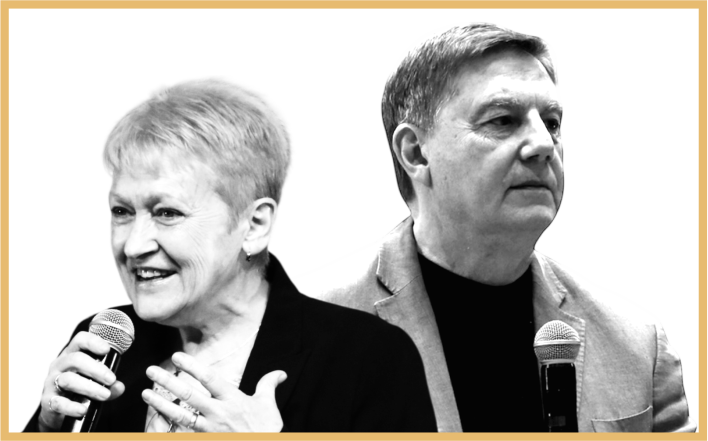
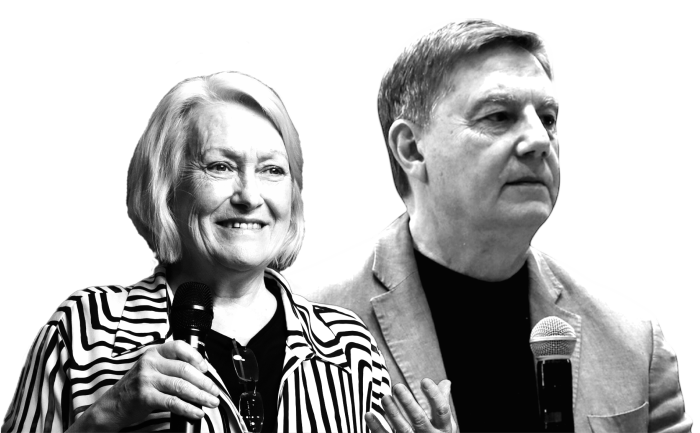
feat(oradores): reescribir sección oradores con puzzle1.png y modales mejorados
- Reemplazar puzzle animado por imagen estática puzzle1.png con áreas clickeables
- Actualizar imágenes individuales de oradores desde nuevos PNGs
- Convertir foto de Rodríguez a escala de grises
- Reemplazar oradores-juntos.png por Oradores_juntos2
- Agregar línea dorada CSS (5px) debajo de fotos en modales y oradores-juntos
- Coordenadas de áreas clickeables medidas pixel a pixel desde puzzle1.png
- Limpiar código: eliminar campo pareja, scripts temporales y imports no usados

diff --git a/src/components/hero.tsx b/src/components/hero.tsx
@@ -1,6 +1,34 @@
 "use client";
 
-import Image from "next/image";
+import { motion } from "framer-motion";
+
+// 1: Título — entrada grandiosa, offset alto, easing fuerte
+const titleAnim = {
+  initial: { y: 50, opacity: 0 },
+  animate: { y: 0, opacity: 1 },
+  transition: { duration: 0.7, delay: 0.2, ease: [0.33, 1, 0.68, 1] as const },
+};
+
+// 2: Año — slide + sutil scale, easing suave
+const yearAnim = {
+  initial: { y: 40, opacity: 0, scale: 0.95 },
+  animate: { y: 0, opacity: 1, scale: 1 },
+  transition: { duration: 0.6, delay: 0.55, ease: [0.61, 1, 0.88, 1] as const },
+};
+
+// 3: Fecha — offset medio, easing suave
+const dateAnim = {
+  initial: { y: 30, opacity: 0 },
+  animate: { y: 0, opacity: 1 },
+  transition: { duration: 0.5, delay: 0.9, ease: [0.61, 1, 0.88, 1] as const },
+};
+
+// 4: Lema — entrada rápida y decidida
+const taglineAnim = {
+  initial: { y: 20, opacity: 0 },
+  animate: { y: 0, opacity: 1 },
+  transition: { duration: 0.4, delay: 1.1, ease: "easeOut" as const },
+};
 
 export function Hero() {
   return (
@@ -8,16 +36,33 @@ export function Hero() {
       id="inicio"
       className="relative flex h-screen items-center justify-center"
     >
-      {/* Title composition PNG - centered to match "primera vista" design */}
       <div className="relative z-10 w-full max-w-3xl px-6 lg:px-8">
-        <Image
-          src="/images/titulo-congreso.png"
-          alt="CONGRESO CCE ARG. 2026 - MARZO 20 AL 23 - EXPANSIÓN SOBRENATURAL"
-          width={1200}
-          height={900}
+        <svg
+          viewBox="0 0 21000 29700"
           className="h-auto w-full"
-          priority
-        />
+          aria-label="CONGRESO CCE ARG. 2026 - MARZO 20 AL 23 - EXPANSIÓN SOBRENATURAL"
+          role="img"
+        >
+          {/* 1: CONGRESO CCE ARG. */}
+          <motion.g {...titleAnim}>
+            <path fill="#FEFEFE" fillRule="nonzero" d="M3846.02 13329.42c-50.13,0 -62.66,-37.61 -62.66,-100.28l0 -3478.17c0,-62.67 12.53,-94 62.66,-94 50.14,0 62.68,31.33 62.68,94l0 1416.33 595.36 0 0 -1435.13c0,-357.22 -175.48,-595.36 -601.63,-595.36l-100.27 0c-463.75,0 -639.23,269.48 -639.23,651.77l0 3402.96c0,426.16 181.74,670.57 639.23,670.57l100.27 0c426.15,0 601.63,-282.01 601.63,-620.43l0 -1585.54 -595.36 0 0 1573c0,56.41 -12.54,100.28 -62.68,100.28zm2124.52 -3484.44c0,-432.42 -194.28,-708.17 -645.51,-708.17l-87.73 0c-451.23,0 -651.77,269.48 -651.77,708.17l0 3321.49c0,438.69 225.62,695.64 651.77,695.64l87.73 0c407.36,0 645.51,-250.69 645.51,-695.64l0 -3321.49zm-620.44 3371.63c0,62.66 -25.07,100.27 -68.94,100.27 -50.13,0 -68.93,-37.61 -68.93,-100.27l0 -3434.31c0,-75.2 12.53,-106.53 68.93,-106.53 50.15,0 68.94,37.6 68.94,106.53l0 3434.31zm715.48 -4048.46l0 4662.62 496.14 0 -6.27 -2995.62 287.24 2995.62 569.25 0 0 -4662.62 -501.36 0 12.54 2688.53 -237.11 -2688.53 -620.43 0zm1910.39 4693.96c206.8,0 332.15,-150.41 413.62,-275.75 18.8,56.4 56.4,181.74 62.67,244.41l413.61 0 0 -2726.13 -695.63 0 0 476.29 119.07 0 0 1660.75c0,75.2 -31.33,112.8 -87.73,112.8 -56.41,0 -81.47,-37.6 -81.47,-112.8l0 -3496.97c0,-56.41 12.53,-94.01 62.66,-94.01 62.68,0 68.95,37.6 68.95,94.01l0 1209.52 589.09 0 0 -1240.86c0,-294.55 -131.61,-576.56 -620.43,-576.56l-81.48 0c-482.55,0 -639.22,282.01 -639.22,614.16l0 3522.04c0,319.62 150.4,589.1 463.76,589.1l12.53 0zm1585.54 -4223.95l50.14 0c56.4,0 62.66,25.07 62.66,81.48l0 1359.93c0,56.41 -18.79,81.47 -68.93,81.47l-43.87 0 0 -1522.88zm0 2049.3l43.87 0c62.67,0 68.93,37.61 68.93,81.48l0 1911.43c0,68.93 18.81,125.33 43.87,150.4l595.36 0 0 -12.53c-12.53,-37.6 -25.06,-87.74 -25.06,-156.68l0 -1986.63c0,-194.27 -125.35,-300.81 -225.62,-338.41 94.01,-43.87 213.09,-144.14 213.09,-388.55l0 -1347.4c0,-288.28 -162.95,-432.42 -376.02,-432.42l-952.58 0 0 4662.62 614.16 0 0 -2143.31zm814.71 -2519.31l0 4662.62 1034.05 0 0 -564.03 -432.43 0 0 -1604.34 363.49 0 0 -576.56 -363.49 0 0 -1359.94 419.89 0 0 -557.75 -1021.51 0zm1692.08 4693.96l137.87 0c426.16,0 626.7,-244.41 626.7,-639.24l0 -1203.26c0,-325.88 -75.2,-495.08 -313.35,-708.17l-325.88 -325.87c-75.21,-81.47 -94.01,-119.08 -94.01,-238.15l0 -1059.12c0,-50.14 18.8,-75.2 62.67,-75.2 43.87,0 62.68,25.06 62.68,75.2l0 1228.33 582.82 0 0 -1253.4c0,-300.81 -131.6,-526.42 -576.56,-526.42l-137.87 0c-438.69,0 -607.9,225.61 -607.9,576.56l0 1059.12c0,288.28 75.21,495.08 275.75,683.09l332.15 325.89c87.74,87.74 106.54,137.87 106.54,263.22l0 1209.52c0,62.67 -18.8,100.27 -68.94,100.27 -50.14,0 -62.67,-37.6 -62.67,-100.27l0 -1410.07 -601.63 0 0 1453.94c0,369.75 200.54,564.03 601.63,564.03zm2224.78 -4017.13c0,-432.42 -194.28,-708.17 -645.51,-708.17l-87.73 0c-451.22,0 -651.76,269.48 -651.76,708.17l0 3321.49c0,438.69 225.61,695.64 651.76,695.64l87.73 0c407.36,0 645.51,-250.69 645.51,-695.64l0 -3321.49zm-620.43 3371.63c0,62.66 -25.08,100.27 -68.95,100.27 -50.13,0 -68.93,-37.61 -68.93,-100.27l0 -3434.31c0,-75.2 12.53,-106.53 68.93,-106.53 50.15,0 68.95,37.6 68.95,106.53l0 3434.31zm-9826.63 5107.28c-50.13,0 -62.66,-37.6 -62.66,-100.28l0 -3478.16c0,-62.68 12.53,-94.01 62.66,-94.01 50.14,0 62.68,31.33 62.68,94.01l0 1416.33 595.36 0 0 -1435.14c0,-357.21 -175.48,-595.36 -601.63,-595.36l-100.27 0c-463.75,0 -639.23,269.49 -639.23,651.77l0 3402.97c0,426.15 181.74,670.56 639.23,670.56l100.27 0c426.15,0 601.63,-282.01 601.63,-620.43l0 -1585.54 -595.36 0 0 1573c0,56.41 -12.54,100.28 -62.68,100.28zm1422.61 0c-50.13,0 -62.67,-37.6 -62.67,-100.28l0 -3478.16c0,-62.68 12.54,-94.01 62.67,-94.01 50.14,0 62.68,31.33 62.68,94.01l0 1416.33 595.36 0 0 -1435.14c0,-357.21 -175.48,-595.36 -601.64,-595.36l-100.27 0c-463.75,0 -639.23,269.49 -639.23,651.77l0 3402.97c0,426.15 181.75,670.56 639.23,670.56l100.27 0c426.16,0 601.64,-282.01 601.64,-620.43l0 -1585.54 -595.36 0 0 1573c0,56.41 -12.54,100.28 -62.68,100.28zm739.51 -4161.27l0 4662.63 1034.05 0 0 -564.03 -432.43 0 0 -1604.34 363.49 0 0 -576.57 -363.49 0 0 -1359.93 419.89 0 0 -557.76 -1021.51 0zm2080.57 3183.62l-150.41 0 75.21 -1967.83 75.2 1967.83zm56.4 1479.01l589.1 0 -313.35 -4662.63 -777.1 0 -294.55 4662.63 526.43 0 37.6 -946.32 194.28 0 37.59 946.32zm1234.6 -4192.61l50.13 0c56.4,0 62.67,25.07 62.67,81.47l0 1359.93c0,56.41 -18.8,81.47 -68.93,81.47l-43.87 0 0 -1522.87zm0 2049.3l43.87 0c62.66,0 68.93,37.6 68.93,81.47l0 1911.43c0,68.93 18.81,125.33 43.87,150.41l595.36 0 0 -12.54c-12.54,-37.6 -25.07,-87.73 -25.07,-156.68l0 -1986.62c0,-194.28 -125.34,-300.81 -225.61,-338.42 94,-43.87 213.08,-144.14 213.08,-388.55l0 -1347.4c0,-288.28 -162.95,-432.42 -376.02,-432.42l-952.58 0 0 4662.63 614.17 0 0 -2143.31zm1290.99 2174.64c206.81,0 332.15,-150.4 413.63,-275.75 18.79,56.41 56.4,181.75 62.66,244.42l413.62 0 0 -2726.14 -695.63 0 0 476.29 119.07 0 0 1660.75c0,75.2 -31.33,112.81 -87.73,112.81 -56.41,0 -81.48,-37.61 -81.48,-112.81l0 -3496.97c0,-56.41 12.53,-94 62.67,-94 62.68,0 68.94,37.59 68.94,94l0 1209.53 589.09 0 0 -1240.87c0,-294.54 -131.6,-576.56 -620.43,-576.56l-81.47 0c-482.56,0 -639.23,282.02 -639.23,614.17l0 3522.03c0,319.62 150.41,589.1 463.76,589.1l12.53 0zm1491.54 -708.17l-526.42 0 0 676.84 526.42 0 0 -676.84z" />
+          </motion.g>
+
+          {/* 2: 2026 */}
+          <motion.g {...yearAnim}>
+            <path fill="#F8F0DD" fillRule="nonzero" d="M12456.91 18826.91l741.35 0 0 -112.53 -622.2 0 0 -516.3c0,-675.16 178.72,-1019.36 344.2,-1337.07 145.62,-271.4 278,-522.93 278,-946.56l0 -1330.46c0,-271.39 -152.24,-436.87 -370.68,-436.87 -211.81,0 -370.67,165.48 -370.67,436.87l0 1363.56 119.15 0 0 -1356.94c0,-238.29 119.14,-324.34 251.52,-324.34 132.39,0 251.54,86.05 251.54,324.34l0 1290.75c0,423.63 -132.39,675.16 -278.01,946.55 -165.48,317.72 -344.2,661.92 -344.2,1337.08l0 661.92zm1780.57 -4242.92c0,-264.77 -152.24,-430.25 -370.68,-430.25 -218.42,0 -370.67,158.86 -370.67,430.25l0 3852.39c0,264.77 152.25,430.25 370.67,430.25 218.44,0 370.68,-158.87 370.68,-430.25l0 -3852.39zm-119.14 0l0 3845.77c0,238.29 -119.15,324.34 -251.54,324.34 -132.38,0 -251.52,-86.05 -251.52,-324.34l0 -3845.77c0,-231.67 119.14,-317.72 251.52,-317.72 132.39,0 251.54,86.05 251.54,317.72zm410.39 4242.92l741.35 0 0 -112.53 -622.2 0 0 -516.3c0,-675.16 178.72,-1019.36 344.2,-1337.07 145.62,-271.4 278,-522.93 278,-946.56l0 -1330.46c0,-271.39 -152.24,-436.87 -370.67,-436.87 -211.82,0 -370.68,165.48 -370.68,436.87l0 1363.56 119.15 0 0 -1356.94c0,-238.29 119.15,-324.34 251.53,-324.34 132.39,0 251.53,86.05 251.53,324.34l0 1290.75c0,423.63 -132.39,675.16 -278.01,946.55 -165.48,317.72 -344.2,661.92 -344.2,1337.08l0 661.92zm1158.37 -2680.78l0 -1555.52c0,-231.68 119.15,-317.72 251.53,-317.72 132.38,0 251.53,86.04 251.53,317.72l0 1025.98 119.14 0 0 -1032.6c0,-264.77 -152.24,-430.25 -370.67,-430.25 -218.43,0 -370.68,158.86 -370.68,430.25l0 3852.39c0,271.38 152.25,430.25 370.68,430.25 218.43,0 370.67,-158.87 370.67,-430.25l0 -2085.06c0,-271.38 -132.38,-430.24 -324.33,-430.24 -132.39,0 -238.3,79.43 -284.63,225.05l-13.24 0zm0 211.81c0,-238.29 119.15,-324.34 251.53,-324.34 132.38,0 251.53,86.05 251.53,324.34l0 2078.44c0,231.67 -119.15,317.72 -251.53,317.72 -132.38,0 -251.53,-86.05 -251.53,-317.72l0 -2078.44z" />
+          </motion.g>
+
+          {/* 3: MARZO 20 AL 23 */}
+          <motion.g {...dateAnim}>
+            <path fill="#E7BB70" fillRule="nonzero" stroke="#E7BB70" strokeWidth="7.62" strokeMiterlimit="22.9256" d="M15171.81 13012.38l-1.52 -533.69 -101.52 0 -196.58 331.65 -199.62 -331.65 -102.16 0 0 533.69 115.88 0 0 -313.35 156.18 256.92 55.65 0 156.93 -263.78 0.76 320.21 116 0zm525.43 0l129.61 0 -238.64 -533.69 -121.98 0 -237.87 533.69 126.56 0 47.26 -114.37 247.79 0 47.27 114.37zm-255.41 -208.14l84.63 -204.33 84.62 204.33 -169.25 0zm913.36 208.14l-119.7 -171.54c69.38,-29.74 109.79,-88.44 109.79,-168.49 0,-119.7 -89.2,-193.66 -231.77,-193.66l-231.01 0 0 533.69 123.51 0 0 -148.67 107.5 0 6.09 0 102.93 148.67 132.66 0zm-134.94 -340.03c0,57.94 -38.13,93.01 -113.61,93.01l-100.63 0 0 -186.03 100.63 0c75.48,0 113.61,34.31 113.61,93.02zm351.46 239.38l292.01 -352.99 0 -80.05 -449.06 0 0 100.64 286.66 0 -292.76 352.99 0 80.06 466.59 0 0 -100.65 -303.44 0zm635.85 109.79c167.73,0 292,-116.64 292,-275.99 0,-159.34 -124.27,-275.99 -292,-275.99 -168.49,0 -291.99,117.42 -291.99,275.99 0,158.59 123.5,275.99 291.99,275.99zm0 -105.21c-95.3,0 -166.96,-69.37 -166.96,-170.78 0,-101.4 71.66,-170.77 166.96,-170.77 95.31,0 166.97,69.37 166.97,170.77 0,101.41 -71.66,170.78 -166.97,170.78zm-2501.44 699.83l122.74 -115.88c74.72,-69.38 89.2,-116.65 89.2,-168.48 0,-96.83 -79.29,-157.83 -198.22,-157.83 -96.06,0 -170.78,38.89 -211.95,99.11l89.96 57.94c25.93,-35.83 64.81,-53.35 110.55,-53.35 56.43,0 85.39,24.39 85.39,66.32 0,25.92 -8.39,53.36 -55.65,98.35l-205.85 194.41 0 80.05 403.31 0 0 -100.64 -229.48 0zm507.76 109.79c131.9,0 228.72,-99.87 228.72,-275.99 0,-176.11 -96.82,-275.99 -228.72,-275.99 -131.13,0 -228.71,99.88 -228.71,275.99 0,176.12 97.58,275.99 228.71,275.99zm0 -104.44c-60.99,0 -103.68,-50.33 -103.68,-171.55 0,-121.22 42.69,-171.53 103.68,-171.53 61.76,0 104.45,50.31 104.45,171.53 0,121.22 -42.69,171.55 -104.45,171.55zm936.99 95.29l129.61 0 -238.64 -533.68 -121.98 0 -237.87 533.68 126.56 0 47.26 -114.36 247.79 0 47.27 114.36zm-255.41 -208.13l84.63 -204.33 84.62 204.33 -169.25 0zm440.67 208.13l391.11 0 0 -100.64 -267.6 0 0 -433.04 -123.51 0 0 533.68zm811.96 -100.64l122.74 -115.88c74.72,-69.38 89.2,-116.65 89.2,-168.48 0,-96.83 -79.29,-157.83 -198.22,-157.83 -96.07,0 -170.79,38.89 -211.95,99.11l89.96 57.94c25.92,-35.83 64.81,-53.35 110.55,-53.35 56.42,0 85.39,24.39 85.39,66.32 0,25.92 -8.39,53.36 -55.65,98.35l-205.85 194.41 0 80.05 403.3 0 0 -100.64 -229.47 0zm529.87 -215.75l120.46 -137.24 0 -80.05 -373.58 0 0 99.12 227.19 0 -109.79 124.26 0 81.59 56.42 0c70.15,0 99.88,25.15 99.88,65.56 0,43.46 -38.12,68.62 -99.88,68.62 -55.66,0 -112.07,-17.54 -152.47,-48.04l-48.04 94.54c51.84,36.59 128.85,57.18 203.56,57.18 151.73,0 221.1,-82.33 221.1,-172.3 0,-78.52 -48.8,-138 -144.85,-153.24z" />
+          </motion.g>
+
+          {/* 4: EXPANSIÓN SOBRENATURAL */}
+          <motion.g {...taglineAnim}>
+            <path fill="#E7BB70" fillRule="nonzero" stroke="#E7BB70" strokeWidth="7.62" strokeMiterlimit="22.9256" d="M7454.26 19806.48l0 -198.22 275.99 0 0 -48.04 -275.99 0 0 -189.84 309.55 0 0 -48.79 -365.97 0 0 533.68 377.4 0 0 -48.79 -320.98 0zm847.03 48.79l-203.55 -275.99 189.07 -257.69 -61 0 -160.1 218.04 -160.87 -218.04 -64.8 0 189.84 259.21 -202.8 274.47 64.8 0 171.55 -234.82 172.3 234.82 65.56 0zm281.33 -533.68l-199.75 0 0 533.68 56.42 0 0 -168.49 143.33 0c135.71,0 218.05,-68.61 218.05,-182.22 0,-114.35 -82.34,-182.97 -218.05,-182.97zm-1.52 315.63l-141.81 0 0 -266.84 141.81 0c106.73,0 163.15,48.8 163.15,134.18 0,83.87 -56.42,132.66 -163.15,132.66zm713.6 218.05l59.47 0 -243.96 -533.68 -55.66 0 -243.98 533.68 58.72 0 64.04 -142.57 297.34 0 64.03 142.57zm-340.8 -188.31l128.09 -286.67 128.09 286.67 -256.18 0zm879.06 -345.37l0 433.04 -343.84 -433.04 -46.51 0 0 533.68 56.42 0 0 -433.04 343.08 433.04 46.51 0 0 -533.68 -55.66 0zm376.62 538.26c136.48,0 198.99,-67.1 198.99,-145.63 0,-194.4 -328.59,-105.96 -328.59,-252.35 0,-53.36 43.45,-96.82 141.04,-96.82 47.28,0 100.64,14.48 146.39,44.22l19.05 -44.98c-42.69,-29.74 -105.2,-47.28 -165.44,-47.28 -135.7,0 -196.7,67.85 -196.7,146.39 0,197.45 328.6,107.49 328.6,253.88 0,52.6 -43.46,94.53 -143.34,94.53 -70.13,0 -137.98,-27.44 -176.11,-64.8l-22.11 43.45c39.65,41.18 118.18,69.39 198.22,69.39zm321.73 -4.58l56.43 0 0 -533.68 -56.43 0 0 533.68zm414 -577.13l53.37 0 123.5 -94.55 -72.43 0 -104.44 94.55zm49.55 581.71c160.11,0 279.81,-115.13 279.81,-271.42 0,-156.29 -119.7,-271.42 -279.81,-271.42 -161.62,0 -280.56,115.89 -280.56,271.42 0,155.53 118.94,271.42 280.56,271.42zm0 -50.32c-128.84,0 -224.91,-93.78 -224.91,-221.1 0,-127.32 96.07,-221.09 224.91,-221.09 128.09,0 223.39,93.77 223.39,221.09 0,127.32 -95.3,221.1 -223.39,221.1zm796.71 -487.94l0 433.04 -343.84 -433.04 -46.52 0 0 533.68 56.42 0 0 -433.04 343.09 433.04 46.51 0 0 -533.68 -55.66 0zm-4246.58 1242.66c136.47,0 198.99,-67.09 198.99,-145.62 0,-194.4 -328.6,-105.96 -328.6,-252.35 0,-53.37 43.46,-96.82 141.05,-96.82 47.27,0 100.64,14.48 146.38,44.22l19.06 -44.99c-42.69,-29.73 -105.21,-47.27 -165.44,-47.27 -135.71,0 -196.7,67.85 -196.7,146.38 0,197.46 328.6,107.5 328.6,253.88 0,52.61 -43.46,94.54 -143.34,94.54 -70.14,0 -137.99,-27.44 -176.11,-64.8l-22.11 43.45c39.64,41.18 118.17,69.38 198.22,69.38zm555.03 0c160.11,0 279.8,-115.12 279.8,-271.41 0,-156.29 -119.69,-271.42 -279.8,-271.42 -161.63,0 -280.56,115.89 -280.56,271.42 0,155.53 118.93,271.41 280.56,271.41zm0 -50.31c-128.85,0 -224.91,-93.78 -224.91,-221.1 0,-127.32 96.06,-221.09 224.91,-221.09 128.09,0 223.38,93.77 223.38,221.09 0,127.32 -95.29,221.1 -223.38,221.1zm742.57 -229.49c48.8,-19.82 81.58,-60.22 81.58,-121.22 0,-86.91 -68.61,-137.23 -187.55,-137.23l-230.25 0 0 533.68 245.5 0c133.41,0 200.51,-51.85 200.51,-142.57 0,-72.43 -41.17,-117.41 -109.79,-132.66zm-109.79 -211.94c85.39,0 134.96,32.78 134.96,96.82 0,64.04 -49.57,96.82 -134.96,96.82l-170.01 0 0 -193.64 170.01 0zm18.3 440.67l-188.31 0 0 -200.51 188.31 0c93.78,0 144.86,30.48 144.86,99.87 0,70.14 -51.08,100.64 -144.86,100.64zm756.31 46.5l-130.37 -182.98c77.76,-25.16 121.98,-83.86 121.98,-167.73 0,-114.35 -82.34,-182.97 -218.05,-182.97l-199.75 0 0 533.68 56.42 0 0 -169.25 143.33 0c15.25,0 28.98,-0.76 42.7,-2.29l121.98 171.54 61.76 0zm-227.96 -217.29l-141.81 0 0 -267.6 141.81 0c106.74,0 163.16,48.79 163.16,134.18 0,83.87 -56.42,133.42 -163.16,133.42zm409.41 168.5l0 -198.22 275.99 0 0 -48.04 -275.99 0 0 -189.84 309.54 0 0 -48.79 -365.96 0 0 533.68 377.39 0 0 -48.79 -320.97 0zm843.98 -484.89l0 433.04 -343.85 -433.04 -46.51 0 0 533.68 56.42 0 0 -433.04 343.08 433.04 46.52 0 0 -533.68 -55.66 0zm628.22 533.68l59.46 0 -243.96 -533.68 -55.66 0 -243.97 533.68 58.71 0 64.04 -142.57 297.34 0 64.04 142.57zm-340.8 -188.31l128.08 -286.67 128.09 286.67 -256.17 0zm565.71 188.31l56.41 0 0 -484.89 187.55 0 0 -48.79 -431.51 0 0 48.79 187.55 0 0 484.89zm538.26 4.57c136.46,0 218.81,-79.29 218.81,-232.53l0 -305.72 -54.9 0 0 303.43c0,126.57 -59.47,184.51 -163.91,184.51 -103.7,0 -163.16,-57.94 -163.16,-184.51l0 -303.43 -56.42 0 0 305.72c0,153.24 83.1,232.53 219.58,232.53zm815 -4.57l-130.37 -182.98c77.76,-25.16 121.98,-83.86 121.98,-167.73 0,-114.35 -82.34,-182.97 -218.05,-182.97l-199.75 0 0 533.68 56.42 0 0 -169.25 143.33 0c15.25,0 28.98,-0.76 42.7,-2.29l121.98 171.54 61.76 0zm-227.96 -217.29l-141.81 0 0 -267.6 141.81 0c106.74,0 163.16,48.79 163.16,134.18 0,83.87 -56.42,133.42 -163.16,133.42zm751.73 217.29l59.47 0 -243.97 -533.68 -55.66 0 -243.97 533.68 58.72 0 64.03 -142.57 297.34 0 64.04 142.57zm-340.8 -188.31l128.09 -286.67 128.08 286.67 -256.17 0zm488.71 188.31l355.28 0 0 -48.79 -298.86 0 0 -484.89 -56.42 0 0 533.68z" />
+          </motion.g>
+        </svg>
       </div>
     </section>
   );

diff --git a/src/components/oradores-puzzle.tsx b/src/components/oradores-puzzle.tsx
@@ -1,53 +1,49 @@
 "use client";
 
 import Image from "next/image";
-import { useEffect, useState, useCallback } from "react";
+import { useEffect, useState, useCallback, useRef } from "react";
+import { motion, useScroll, useTransform } from "framer-motion";
 
 const oradores = [
   {
     id: "cattaneo",
     nombre: "Aps. Daniel y Patricia Cattaneo",
     imagen: "/images/oradores/cattaneo.png",
-    pareja: true,
     resena:
       "Pastor principal y apóstol de la Iglesia Redentor (Comunidad Redentor), fundada en 1945 en San Lorenzo, Santa Fe. Lidera una red de 16 templos en la provincia de Santa Fe. Reconocido por su creatividad e innovación ministerial, incluyendo iniciativas como la protesta 'culto-bar' durante la pandemia 2020. Ministerio integral: espiritual, emocional y físico.",
-    area: { left: 22, top: 8, width: 30, height: 37 },
+    area: { left: 33.0, top: 16.8, width: 29.0, height: 23.4 },
   },
   {
     id: "ale-maria",
     nombre: "Prs. Ale y María Chamorro",
     imagen: "/images/oradores/ale-maria.png",
-    pareja: true,
     resena:
       "Pastores del Centro Cristiano Esperanza en Plottier, Neuquén. Sirven en el ministerio pastoral de la iglesia madre del CCE, liderando la congregación local con pasión y entrega.",
-    area: { left: 58, top: 5, width: 27, height: 38 },
+    area: { left: 62.8, top: 16.8, width: 18.0, height: 37.5 },
   },
   {
     id: "daniel-rosita",
     nombre: "Aps. Daniel y Rosita Chamorro",
     imagen: "/images/oradores/daniel-rosita.png",
-    pareja: true,
     resena:
       "Fundadores del Centro Cristiano Esperanza en 1982, Plottier. Red apostólica con presencia en Argentina, España, Italia, EE.UU., India y África. Más de 40 años de ministerio pastoral. Obras pioneras: FM Esperanza (primera radio cristiana FM del país, 1988), instituciones educativas, centros de salud. Conferencistas internacionales.",
-    area: { left: 18, top: 42, width: 32, height: 35 },
+    area: { left: 33.0, top: 41.3, width: 29.0, height: 23.3 },
   },
   {
     id: "belart",
     nombre: "Pr. Sergio Belart",
     imagen: "/images/oradores/belart.png",
-    pareja: false,
     resena:
       "Pastor de la Iglesia Cristiana 'Cita con la Vida' en Córdoba. Abogado (UNC). Director del Congreso Internacional de Jóvenes (Semana Santa, Córdoba, desde 1994). Lidera 'Jóvenes con Propósito' (5.000+ jóvenes). Conferencista internacional en más de 20 países. Autor de 'El Pastor de Jóvenes' y 'Generación de Relevo'.",
-    area: { left: 48, top: 55, width: 22, height: 38 },
+    area: { left: 62.8, top: 55.5, width: 18.0, height: 37.5 },
   },
   {
     id: "rodriguez",
     nombre: "Pr. Alejandro Rodríguez",
     imagen: "/images/oradores/rodriguez.png",
-    pareja: false,
     resena:
       "Misionero y presidente de JUCUM Argentina (Juventud Con Una Misión), organización presente en 172 países. Junto a su esposa Martha refundó la obra de JUCUM Argentina en 1989. Ha formado y enviado cientos de misioneros transculturales. Conferencista en los 5 continentes. JUCUM Argentina cuenta con más de 700 obreros y múltiples bases.",
-    area: { left: 74, top: 58, width: 20, height: 35 },
+    area: { left: 81.9, top: 55.5, width: 18.1, height: 37.5 },
   },
 ];
 
@@ -76,15 +72,16 @@ function OradorModal({
       onClick={onClose}
     >
       <div className="animate-fade-in-up w-full max-w-lg border border-dorado/30 bg-negro-suave p-6 md:p-8">
-        <div className={`relative mx-auto w-full max-w-sm overflow-hidden border-2 border-dorado/40 ${
-          orador.pareja ? "aspect-[4/3]" : "aspect-[3/4]"
-        }`}>
+        <div className="mx-auto w-full max-w-sm">
           <Image
             src={orador.imagen}
             alt={orador.nombre}
-            fill
-            className="object-cover object-center"
+            width={600}
+            height={600}
+            className="h-auto w-full"
           />
+          {/* Golden line below photo */}
+          <div className="h-[5px] w-full bg-dorado" />
         </div>
 
         <h3 className="mt-6 font-serif text-2xl text-dorado md:text-3xl">
@@ -112,19 +109,35 @@ export function OradoresPuzzle() {
   >(null);
 
   const handleClose = useCallback(() => setSelectedOrador(null), []);
+  const sectionRef = useRef(null);
+
+  const { scrollYProgress } = useScroll({
+    target: sectionRef,
+    offset: ["start end", "end start"],
+  });
+
+  const opacity = useTransform(scrollYProgress, [0.1, 0.3], [0, 1]);
+  const y = useTransform(scrollYProgress, [0.1, 0.3], [60, 0]);
 
   return (
     <>
-      <section id="oradores" className="relative py-20 md:py-32">
+      <section
+        id="oradores"
+        ref={sectionRef}
+        className="relative py-20 md:py-32"
+      >
         <div className="mx-auto max-w-5xl px-4 lg:px-8">
-          {/* Puzzle image with clickable overlays */}
-          <div className="relative w-full">
+          <motion.div
+            className="relative w-full"
+            style={{ aspectRatio: "2438 / 1886", opacity, y }}
+          >
             <Image
-              src="/images/puzzle-oradores.png"
+              src="/images/puzzle1.png"
               alt="Oradores del Congreso CCE 2026"
-              width={1200}
-              height={900}
+              width={2438}
+              height={1886}
               className="h-auto w-full"
+              priority
             />
 
             {/* Invisible clickable areas over each speaker */}
@@ -132,7 +145,7 @@ export function OradoresPuzzle() {
               <button
                 key={orador.id}
                 onClick={() => setSelectedOrador(orador)}
-                className="absolute cursor-pointer"
+                className="absolute z-10 cursor-pointer"
                 style={{
                   left: `${orador.area.left}%`,
                   top: `${orador.area.top}%`,
@@ -142,7 +155,7 @@ export function OradoresPuzzle() {
                 aria-label={`Ver reseña de ${orador.nombre}`}
               />
             ))}
-          </div>
+          </motion.div>
 
           <p className="mt-6 text-center font-mono text-xs font-light text-gris-texto/60">
             Hacé clic en cada orador para conocer más

diff --git a/src/app/page.tsx b/src/app/page.tsx
@@ -1,5 +1,6 @@
 "use client";
 
+import { useEffect, useState } from "react";
 import { Header } from "@/components/header";
 import { FixedBackground } from "@/components/fixed-background";
 import { FloatingParticles } from "@/components/floating-particles";
@@ -16,6 +17,13 @@ import { Footer } from "@/components/footer";
 import { WhatsAppButton } from "@/components/whatsapp-button";
 
 export default function Home() {
+  const [curveVisible, setCurveVisible] = useState(false);
+
+  useEffect(() => {
+    const timer = setTimeout(() => setCurveVisible(true), 500);
+    return () => clearTimeout(timer);
+  }, []);
+
   return (
     <>
       {/* Layer 1: Fixed background (z-0) - always visible */}
@@ -26,6 +34,30 @@ export default function Home() {
 
       {/* Layer 2: Scrollable content (z-20) */}
       <div className="relative z-20">
+        {/* Golden decorative curve - anchored to hero, visible on scroll */}
+        <div className="absolute -left-[10%] top-0 z-[5] h-screen pointer-events-none">
+          <svg
+            viewBox="0 0 18718 28729.7"
+            className="h-[156%] w-auto opacity-90"
+            preserveAspectRatio="xMinYMin meet"
+            aria-hidden="true"
+          >
+            <path
+              d="M3190.54 7829.2c5862.87,-2682.06 7942.95,-2561.9 8262.79,-2037.11 464.71,762.45 -3075.18,3341.58 -6537.99,7434.03 7626.8,-2329.01 11235.37,-4774.93 12305.66,-2218.89 1539.6,3676.86 -10353.84,9592.05 -15866.51,12241.84"
+              fill="none"
+              stroke="#E7BB70"
+              strokeWidth="1270"
+              strokeMiterlimit="22.9256"
+              strokeLinecap="round"
+              strokeDasharray="60000"
+              strokeDashoffset={curveVisible ? "0" : "60000"}
+              style={{
+                transition: "stroke-dashoffset 0.75s ease-in-out",
+              }}
+            />
+          </svg>
+        </div>
+
         {/* Hero: just title PNG, transparent bg → fondo shows through */}
         <Hero />
 

diff --git a/src/components/fixed-background.tsx b/src/components/fixed-background.tsx
@@ -5,7 +5,6 @@ import Image from "next/image";
 
 export function FixedBackground() {
   const [textVisible, setTextVisible] = useState(true);
-
   // "Centro Cristiano Esperanza" fade cycle every ~30s
   useEffect(() => {
     const interval = setInterval(() => {

diff --git a/src/components/hero-content.tsx b/src/components/hero-content.tsx
@@ -88,7 +88,7 @@ export function HeroContent() {
             className="h-auto w-full"
           />
         </div>
-        <div className="h-[3px] w-full bg-dorado" />
+        <div className="h-[5px] w-full bg-dorado" />
       </div>
     </section>
   );
